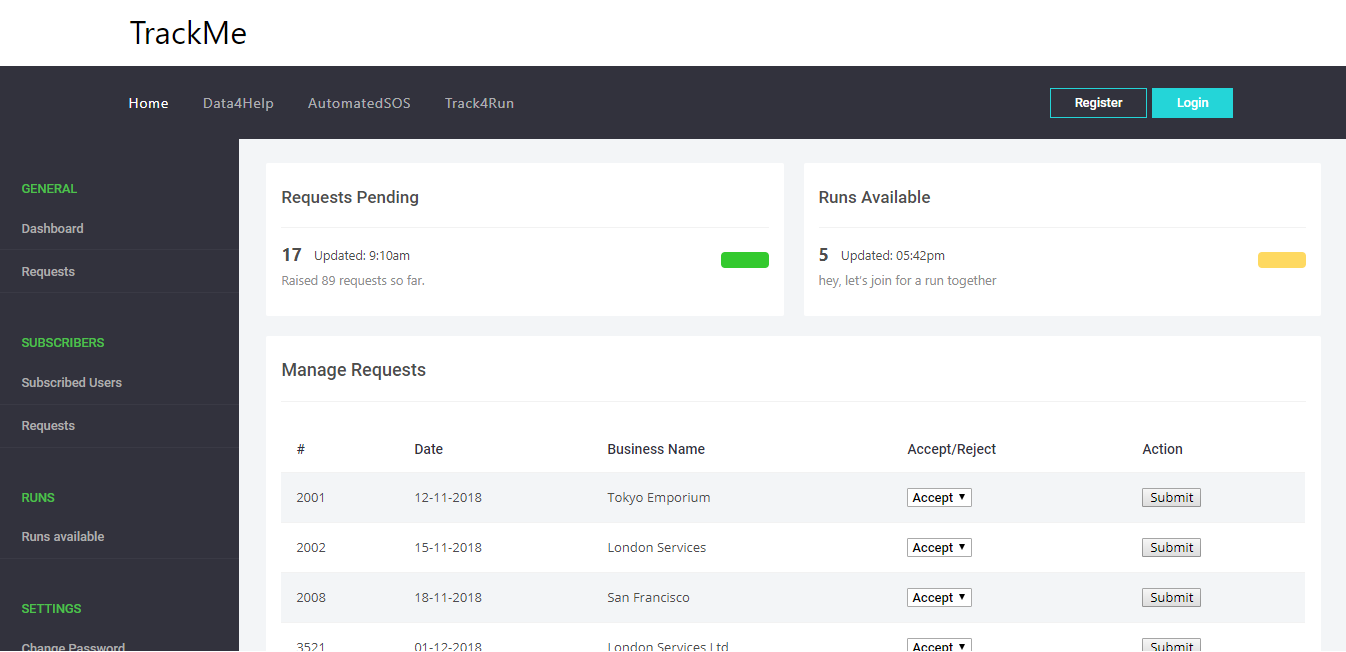
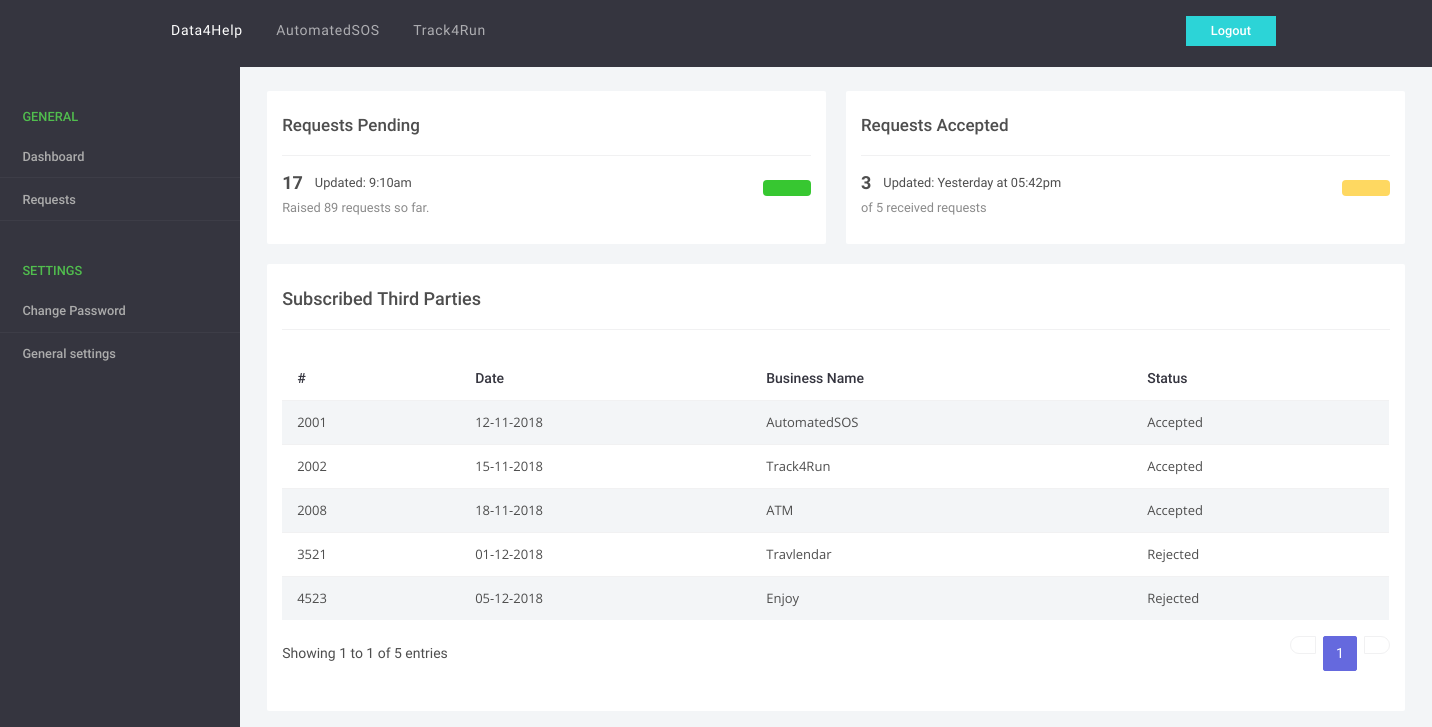
update UI files and mockup. Update UI descriptions

diff --git a/src/mockups/db/individual_requests.html b/src/mockups/db/individual_requests.html
@@ -134,20 +134,20 @@
 								</div>
 							</div>
 						</div>
-						<div class="col-md-6 grid-margin">
+                        <div class="col-md-6 grid-margin">
 							<div class="card">
 								<div class="card-body">
-									<h4 class="card-title mb-0">Runs Available</h4>
+									<h4 class="card-title mb-0">Requests Accepted</h4>
 									<div class="d-flex justify-content-between align-items-center">
 										<div class="d-inline-block pt-3">
 											<div class="d-flex">
-												<h2 class="mb-0">5</h2>
+												<h2 class="mb-0">3</h2>
 												<div class="d-flex align-items-center ml-2">
 													<i class="mdi mdi-clock text-muted"></i>
-													<small class=" ml-1 mb-0">Updated: 05:42pm</small>
+													<small class=" ml-1 mb-0">Updated: Yesterday at 05:42pm</small>
 												</div>
 											</div>
-											<small class="text-gray">hey, let’s join for a run together</small>
+											<small class="text-gray">of 5 received requests</small>
 										</div>
 										<div class="d-inline-block">
 											<div class="bg-warning px-4 py-2 rounded">

diff --git a/DD/DD.tex b/DD/DD.tex
@@ -1175,64 +1175,73 @@ Moreover, Data4Help services are the key part of the   application. That is why 
 	
 	\begin{figure}[H]
 		\centering
-		\includegraphics[scale=0.35]{UI/dashboard_individual.png}
+		\includegraphics[width=1\textwidth]{UI/dashboard_individual.png}
 		\caption[UI: Individual Dashboard Page]{Individual Dashboard Page}
 		\label{fig:Dashboard for individuals}
 	\end{figure}
 
-The above figure 3.6 displays the dashboard for individual users, this new page is responsive and a real-time view of the application for the individual user's point of view. the individual user have options to accept or reject any request for data acquisition. As soon as an action is taken upon the request, it gets deleted from the page.
+The above Figure \ref{fig:Dashboard for individuals} displays the dashboard for individual users, this page is responsive and a real-time view of the application for the individual user's point of view. Here, the user can seen his/her pending requests, accepted requests, and a list of all the requests he/she approved or rejected.
 
 	\begin{figure}[H]
 		\centering
-		\includegraphics[scale=0.35]{UI/db_thirdparty.png}
+		\includegraphics[width=1\textwidth]{UI/individual_manage_requests.png}
+		\caption[UI: Manage Requests Page]{Manage Requests Page}
+		\label{fig:manage_requests}
+	\end{figure}
+
+In the Figure \ref{fig:manage_requests} the individual user have options to accept or reject any request for data acquisition. As soon as an action is taken upon the request, it gets deleted from the page.
+
+	\begin{figure}[H]
+		\centering
+		\includegraphics[width=1\textwidth]{UI/db_thirdparty.png}
 		\caption[UI: Third party Dashboard Page]{Third party Dashboard Page}
-		\label{fig:Dashboard for individuals}
+		\label{fig:third_party_dashboard}
 	\end{figure}
-	The above figure 3.7 displays the dashboard for third party users, this new page is responsive and a real-time view of the application for the third party user's point of view. Third parties can  request for  data using the filtering criteria provided by the system such as: specific individual data or in bulk; furthermore, if its specific request then filtering is done by SSN/fiscal code and if its bulk data, then, filtering is done basis upon country, age and blood type.
 	
+	The above Figure \ref{fig:third_party_dashboard} displays the dashboard for third party users, this page is responsive and a real-time view of the application for the third party user's point of view. Third parties can search for  data using the filtering criteria provided by the system such as country, province, city, age, blood type, or SSN. When the user fills in the SSN field, all the other fields are disabled since are related to bulk anonymized data. If the user wants to subscribe to the bulk anonymize data, he/she can do it by checking the Subscribe checkbox and setting the amount of time in between updates.	
 	
 	\begin{figure}[H]
 		\centering
-		\includegraphics[scale=0.35]{UI/db_organizer1.png}
+		\includegraphics[width=1\textwidth]{UI/db_organizer1.png}
 		\caption[UI: Organizers' Dashboard Page]{Organizers' Dashboard Page}
-		\label{fig:Dashboard for Organizer}
+		\label{fig:organizer_dashboard_1}
 	\end{figure}
-	In the figure 3.8, the organizer can see the number of pending invites for the already configured runs which are still pending to send to the targeted participants; also, organizer's are able to view the number of already configured runs from the past; In addition, they can start configuring a new run by clicking on 'Create new run' button.
+	In the Figure \ref{fig:organizer_dashboard_1}, the organizer can see the number of pending invites for the already configured runs which are still pending to send to the targeted participants; also, organizer's are able to view the number of already configured runs from the past; In addition, they can start configuring a new run by clicking on 'Create new run' button.
 	
 	\begin{figure}[H]
 		\centering
-		\includegraphics[scale=0.35]{UI/db_organizer2.png}
+		\includegraphics[width=1\textwidth]{UI/db_organizer2.png}
 		\caption[UI: Organizers' Dashboard Page]{Organizers' Dashboard Page}
-		\label{fig:Dashboard for Organizer}
+		\label{fig:organizer_dashboard_2}
 	\end{figure}
-	In the figure 3.9, Organizer's are able to define the parameters to define a complete running circuit such as: start and end time, name of the run, date of the run, nodes of the running circuit and here they can select whether to send invitations now or not by clicking the check-box; Thus, by clicking on 'Complete running circuit' button, the configuration gets completed and based on the details above, run is configured.
+	In the Figure \ref{fig:organizer_dashboard_2}, Organizer's are able to define the parameters to define a complete running circuit such as: start and end time, name of the run, date of the run, nodes of the running circuit and here they can select whether to send invitations now or not by clicking the check-box; Thus, by clicking on 'Complete running circuit' button, the configuration gets completed and based on the details above, run is configured.
 	
 	\begin{figure}[H]
 		\centering
-		\includegraphics[scale=0.14]{UI/track4run.png}
+		\includegraphics[width=1\textwidth]{UI/track4run.png}
 		\caption[UI: Track4Run Web Page]{Track4Run Web Page}
 		\label{fig:Track4Run Web Page}
 	\end{figure}
 	
-	In the figure 3.10, Spectators are able to view all the available runs in which are currently going on; and by clicking on 'view participants' button, they are redirected to the map-view of the selected run, where they can view the live location of the participant users.	
+	In the Figure \ref{fig:Track4Run Web Page}, Spectators are able to view all the available runs in which are currently going on; and by clicking on 'view participants' button, they are redirected to the map-view of the selected run, where they can view the live location of the participant users.	
 	
 	\begin{figure}[H]
 		\centering
-		\includegraphics[scale=0.14]{UI/spectators_map.png}
+		\includegraphics[width=1\textwidth]{UI/spectators_map.png}
 		\caption[UI: Spectators' Map-view Page]{Spectators' Map-view Page}
 		\label{fig:Spectators' Map-view Page}
 	\end{figure}
 	
-	In the figure 3.11, Spectators are able to view  the participants' live position during the run and time left for the race to end, because after the end of this time, spectators won't be able to view the map.
+	In the Figure \ref{fig:Spectators' Map-view Page}, Spectators are able to view  the participants' live position during the run and time left for the race to end, because after the end of this time, spectators won't be able to view the map.
 	
 	\begin{figure}[H]
 		\centering
-		\includegraphics[scale=0.35]{UI/spectator_invalid.png}
+		\includegraphics[width=1\textwidth]{UI/spectator_invalid.png}
 		\caption[UI: Spectators's invalid view]{Spectators's invalid view}
 		\label{fig:Spectators's invalid view}
 	\end{figure}
 	
-	In the figure 3.12, Spectators are able to view an error message when the race has been ended. 
+	In the Figure \ref{fig:Spectators's invalid view}, Spectators are able to view an error message when the race has been ended. 
 	
 	\chapter{Requirements traceability}
 	In this section is shown how the goals and requirements specified in the RASD are mapped to the design components defined in this document.
